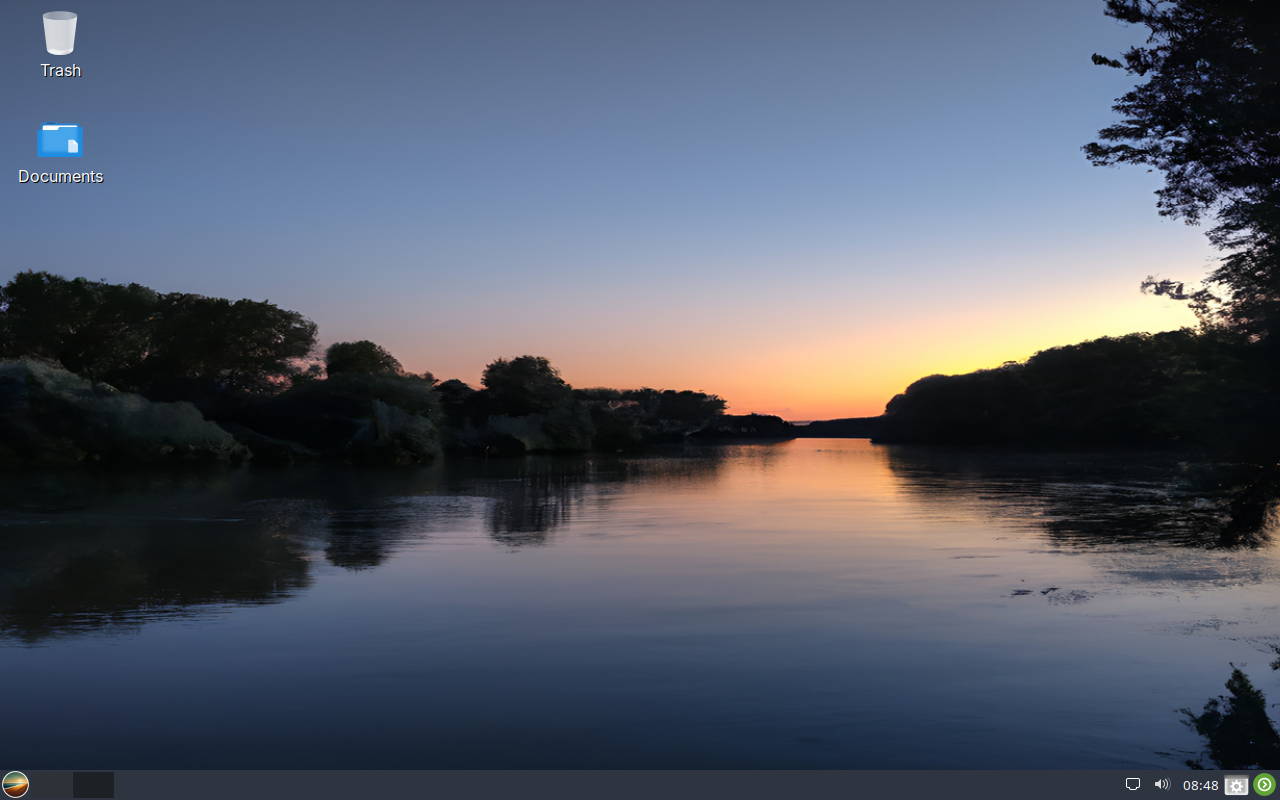
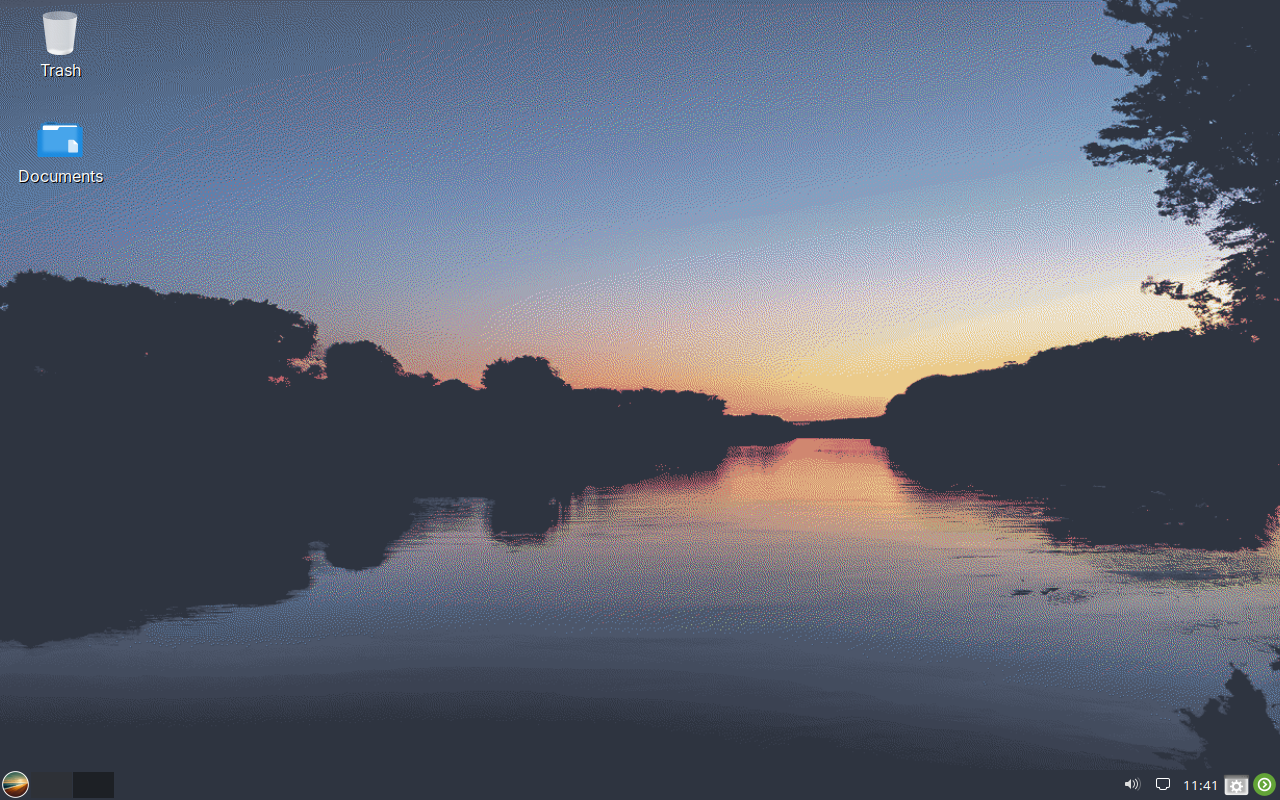
update

diff --git a/README.md b/README.md
@@ -17,4 +17,4 @@ Made in The Philippines 🇵🇭
 
 Download link to ISOs:
 
-Current: https://icedrive.net/s/Vyt5zf7TGvVh6wRRZjWB1WzG9ia9
+Current: https://drive.google.com/drive/folders/1HjTh7jfTKkWAV_sl1srfnE7xRAinjKzx?usp=sharing
